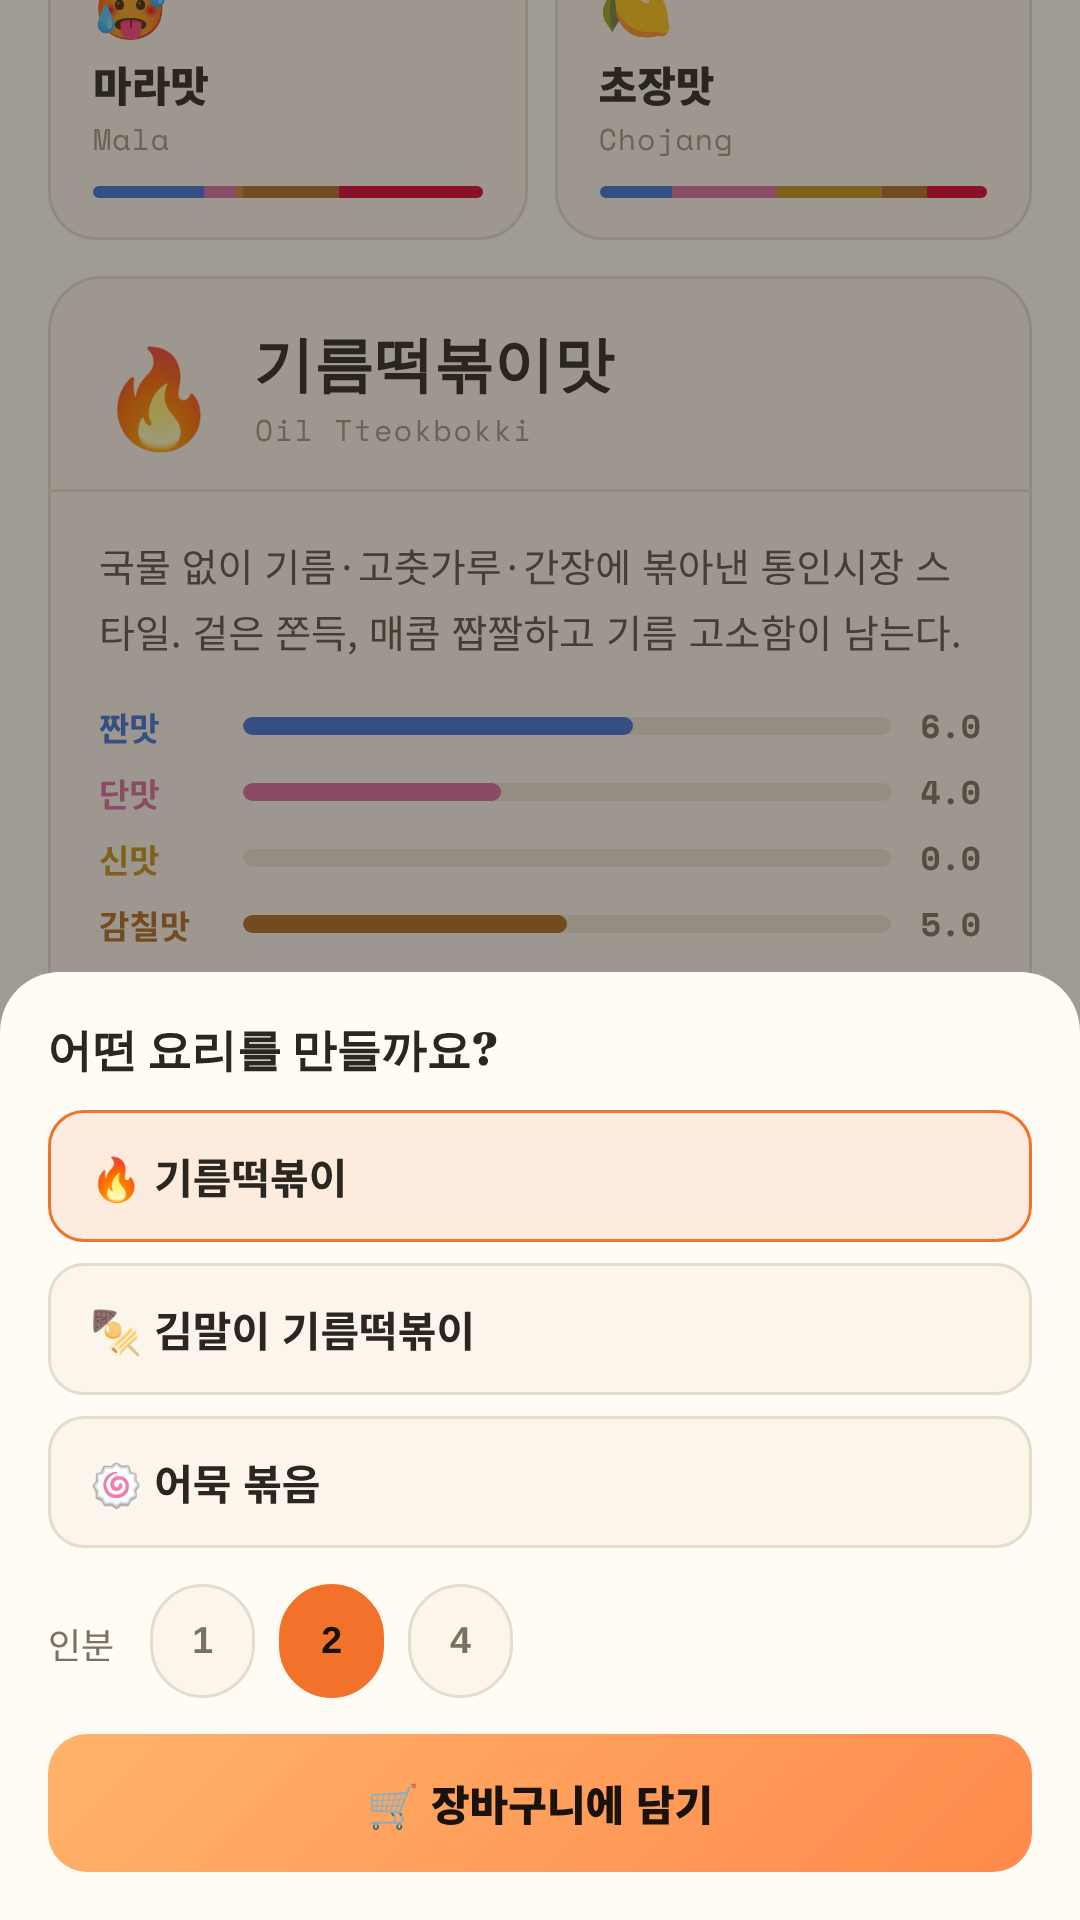
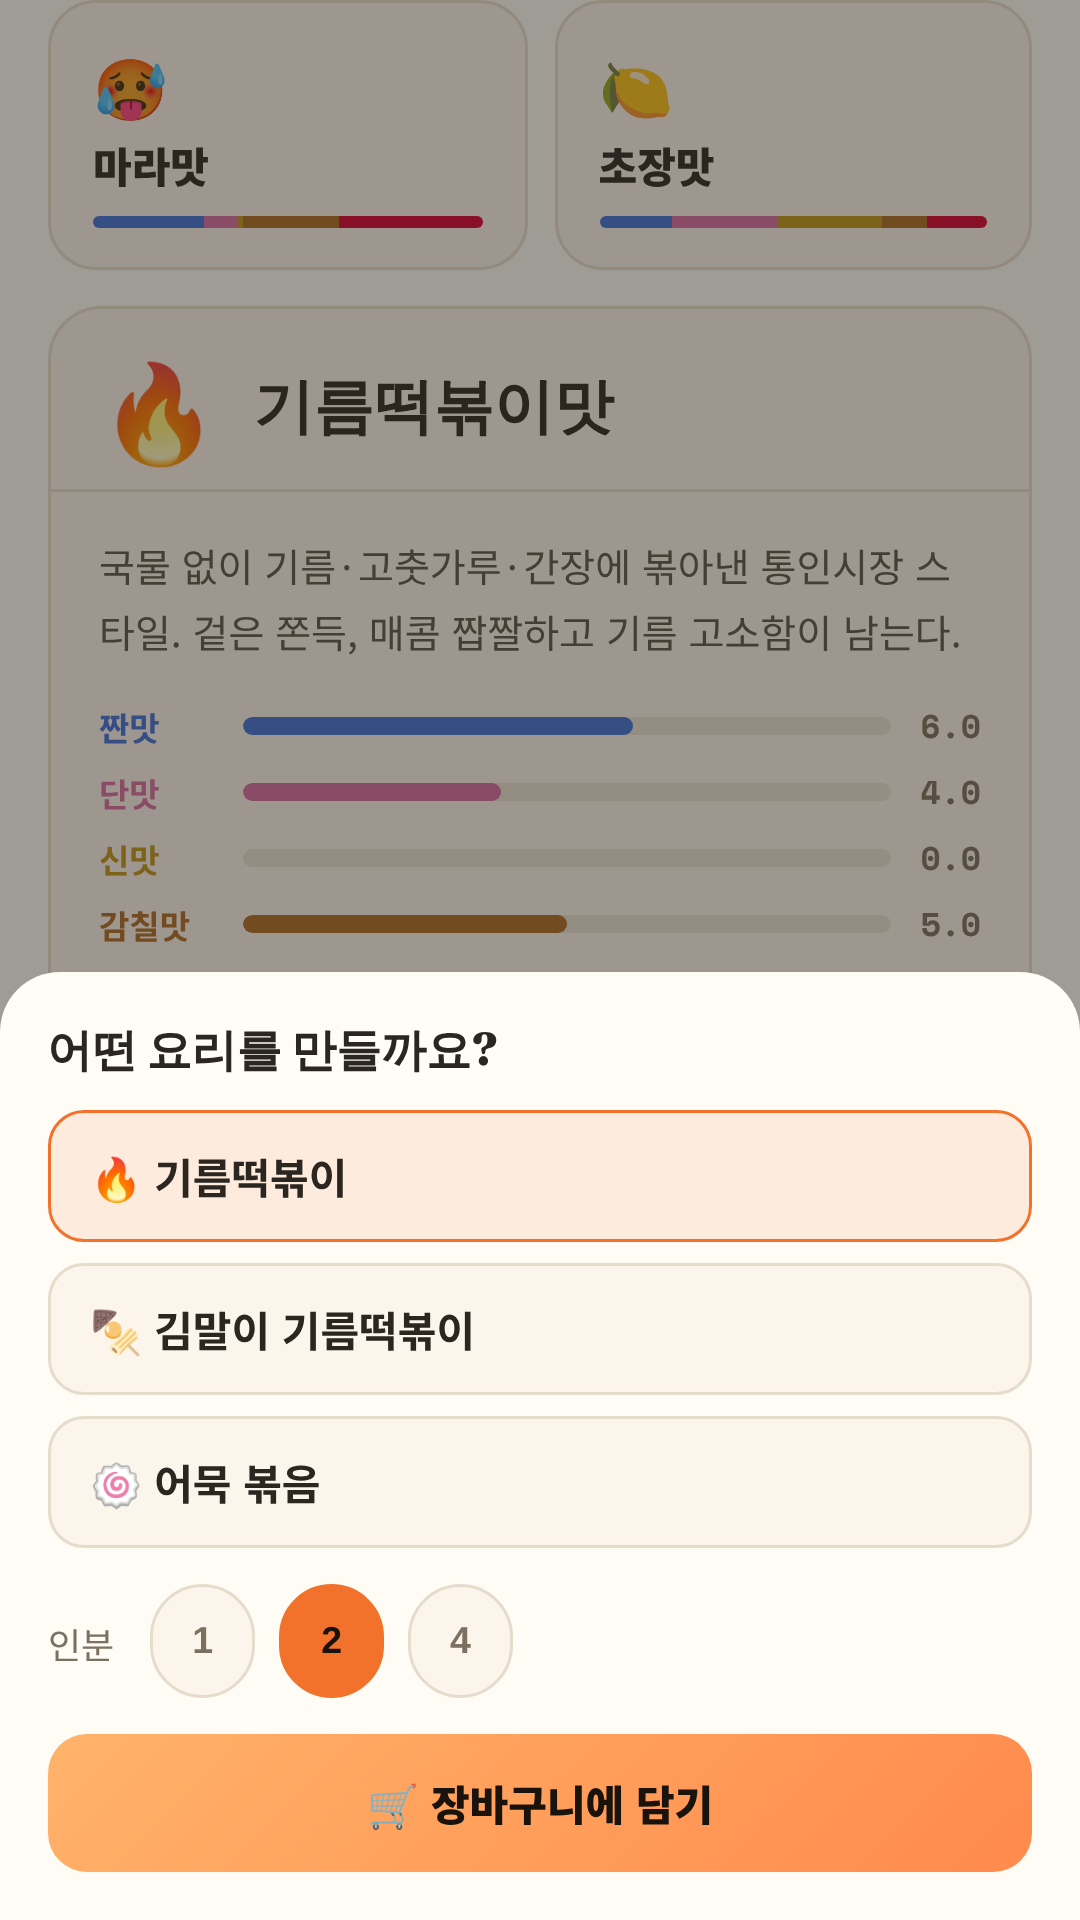
feat(cook): 맛 카드 영어 부제 숨김, 스토어 이미지 다시 만들기
Claude-Session: https://claude.ai/code/session_017KWaKnS2P9UBMi724z59cy

diff --git a/cook/index.html b/cook/index.html
@@ -1928,7 +1928,7 @@ function buildSense(){
     TASTE_WORDS.forEach((w,i)=>{
       if(w.cat!==cat) return;
       const bars=SW_KEYS.map((k,ki)=>`<div class="sc-bar" style="flex:${w.v[k]||0.5};background:${SW_COLORS[ki]}"></div>`).join("");
-      html+=`<div class="scard" data-idx="${i}" id="sc-${i}"><div class="sc-em">${w.em}</div><div class="sc-nm">${w.nm}</div><div class="sc-sub">${w.eng}</div><div class="sc-bars">${bars}</div></div>`;
+      html+=`<div class="scard" data-idx="${i}" id="sc-${i}"><div class="sc-em">${w.em}</div><div class="sc-nm">${w.nm}</div><div class="sc-bars">${bars}</div></div>`;
     });
     html+=`</div></div>`;
   });
@@ -1953,7 +1953,7 @@ function renderSenseDetail(idx){
   const w=TASTE_WORDS[idx];
   const bars=SW_KEYS.map((k,ki)=>`<div class="sd-taste-item"><div class="sd-taste-label" style="color:${SW_COLORS[ki]}">${SW_LABELS[ki]}</div><div class="sd-taste-bar-wrap"><div class="sd-taste-bar" style="width:${(w.v[k]||0)*10}%;background:${SW_COLORS[ki]}"></div></div><div class="sd-taste-val">${(w.v[k]||0).toFixed(1)}</div></div>`).join("");
   const dishes=w.dishes.map(d=>`<button class="sd-dish-chip" onclick="goRecipe('${d.replace(/'/g,"\\'")}')">${d}</button>`).join("");
-  $("senseDetail").innerHTML=`<div class="sense-detail"><div class="sd-head"><div class="sd-em">${w.em}</div><div class="sd-left"><div class="sd-nm">${w.nm}</div><div class="sd-eng">${w.eng}</div></div></div><div class="sd-body"><div class="sd-desc">${w.desc}</div><div class="sd-taste-row">${bars}</div><div class="sd-dishes">${dishes}</div><button class="sd-apply-btn" onclick="applySenseToExplore(${idx})">🎚 이 맛으로 시뮬레이터 열기</button>${w.sid?`<button class="sd-apply-btn" style="margin-top:8px" onclick="goCalcWithStyle('${w.sid}')">⚖ 이 맛으로 g 배합 계산하기</button>`:""}${w.sid&&TASTE_DISHES[w.sid]?`<button class="sd-apply-btn" style="margin-top:8px" onclick="openDishPicker('${w.sid}')">🛒 살 재료 담기</button>`:""}</div></div>`;
+  $("senseDetail").innerHTML=`<div class="sense-detail"><div class="sd-head"><div class="sd-em">${w.em}</div><div class="sd-left"><div class="sd-nm">${w.nm}</div></div></div><div class="sd-body"><div class="sd-desc">${w.desc}</div><div class="sd-taste-row">${bars}</div><div class="sd-dishes">${dishes}</div><button class="sd-apply-btn" onclick="applySenseToExplore(${idx})">🎚 이 맛으로 맛 그래프 열기</button>${w.sid?`<button class="sd-apply-btn" style="margin-top:8px" onclick="goCalcWithStyle('${w.sid}')">⚖ 이 맛으로 g 배합 계산하기</button>`:""}${w.sid&&TASTE_DISHES[w.sid]?`<button class="sd-apply-btn" style="margin-top:8px" onclick="openDishPicker('${w.sid}')">🛒 살 재료 담기</button>`:""}</div></div>`;
 }
 function applySenseToExplore(idx){
   const w=TASTE_WORDS[idx];

diff --git a/cook/tests/privacy.test.js b/cook/tests/privacy.test.js
@@ -52,7 +52,7 @@ test("저장 탭 하단에 개인정보처리방침 링크가 있다", async () 
 test("서비스워커 캐시에 privacy.html이 들어가고 버전이 올라갔다", () => {
   const sw = fs.readFileSync(path.join(__dirname, "..", "sw.js"), "utf8");
   assert.ok(sw.includes('"./privacy.html"'));
-  assert.ok(sw.includes('const CACHE = "jeonjahyeo-v10"'));
+  assert.ok(sw.includes('const CACHE = "jeonjahyeo-v11"'));
 });
 
 test("개인정보처리방침의 돌아가기는 저장한 배합 화면으로 복귀", async () => {

diff --git a/cook/sw.js b/cook/sw.js
@@ -1,5 +1,5 @@
 /* 전자혀 서비스워커 — 오프라인 + 빠른 로딩 */
-const CACHE = "jeonjahyeo-v10";
+const CACHE = "jeonjahyeo-v11";
 const ASSETS = [
   "./", "./index.html", "./manifest.webmanifest",
   "./privacy.html", "./icon-192.png", "./icon-512.png", "./apple-touch-icon.png"
